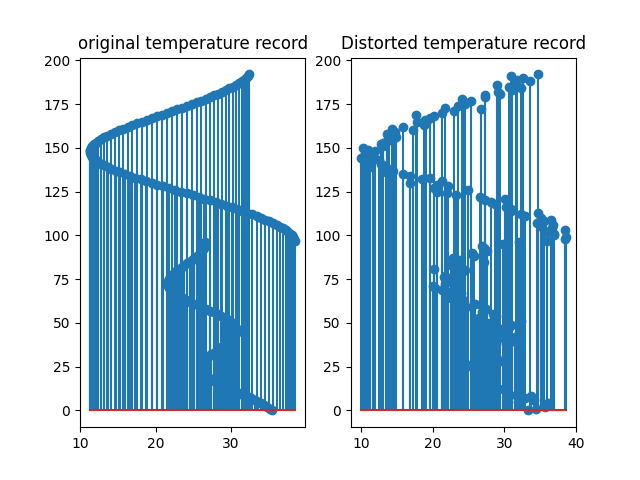
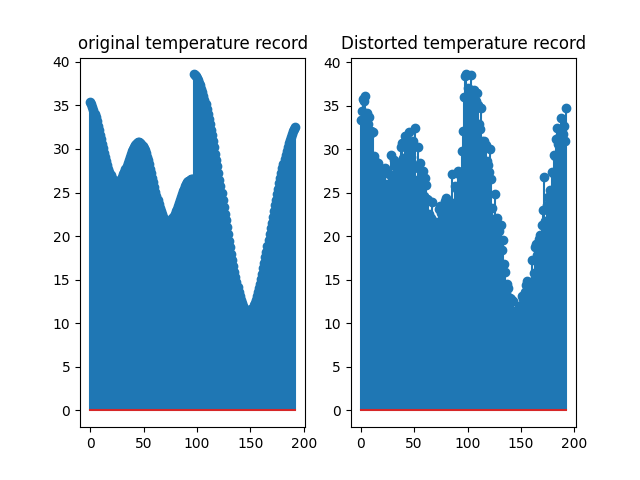
updated image

diff --git a/main.py b/main.py
@@ -10,9 +10,9 @@ plt.figure()
 
 plt.subplot(1,2,1)
 plt.title("original temperature record")
-plt.stem(X,range(length))
+plt.stem(range(length),X)
 
 plt.subplot(1,2,2)
 plt.title("Distorted temperature record")
-plt.stem(Y,range(length))
+plt.stem(range(length),Y)
 plt.show()
